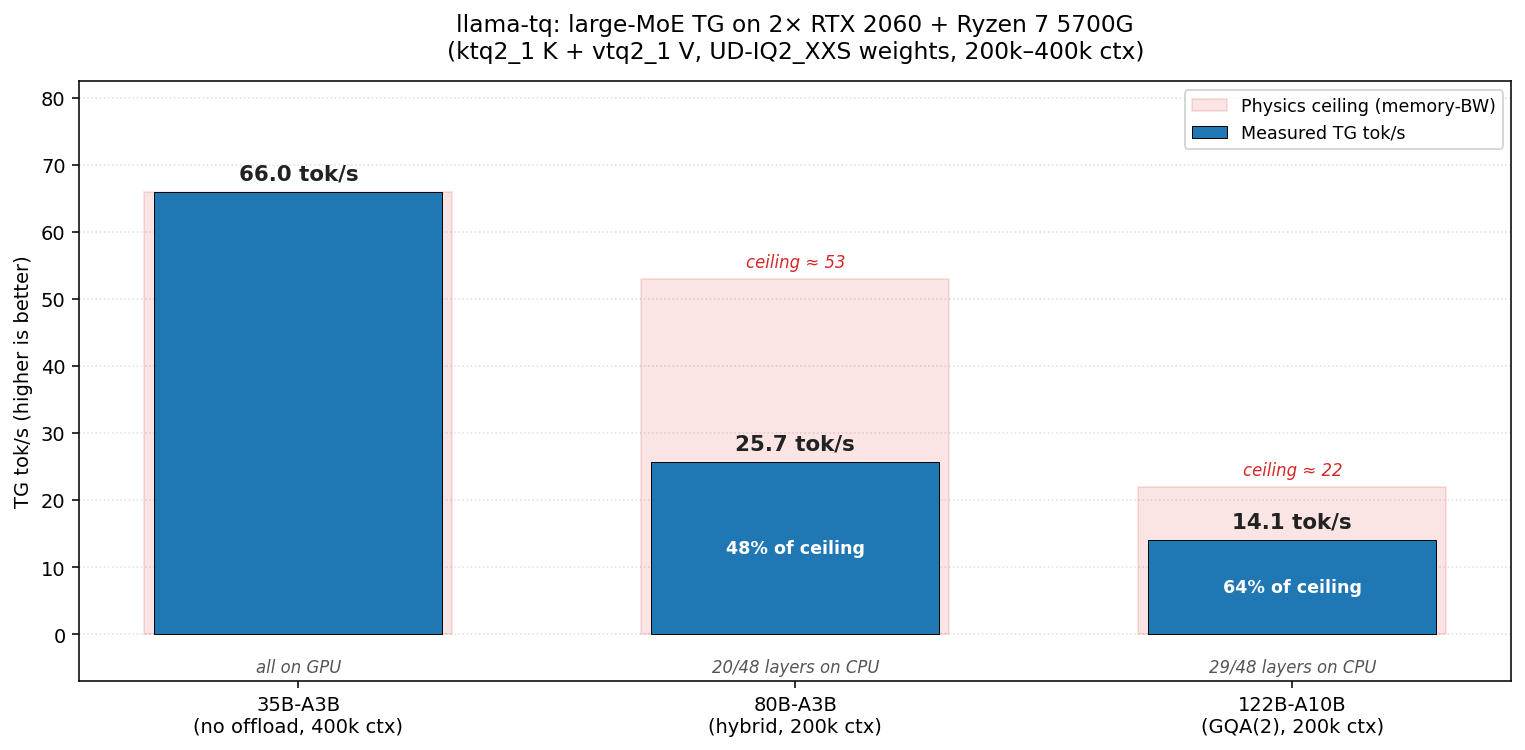
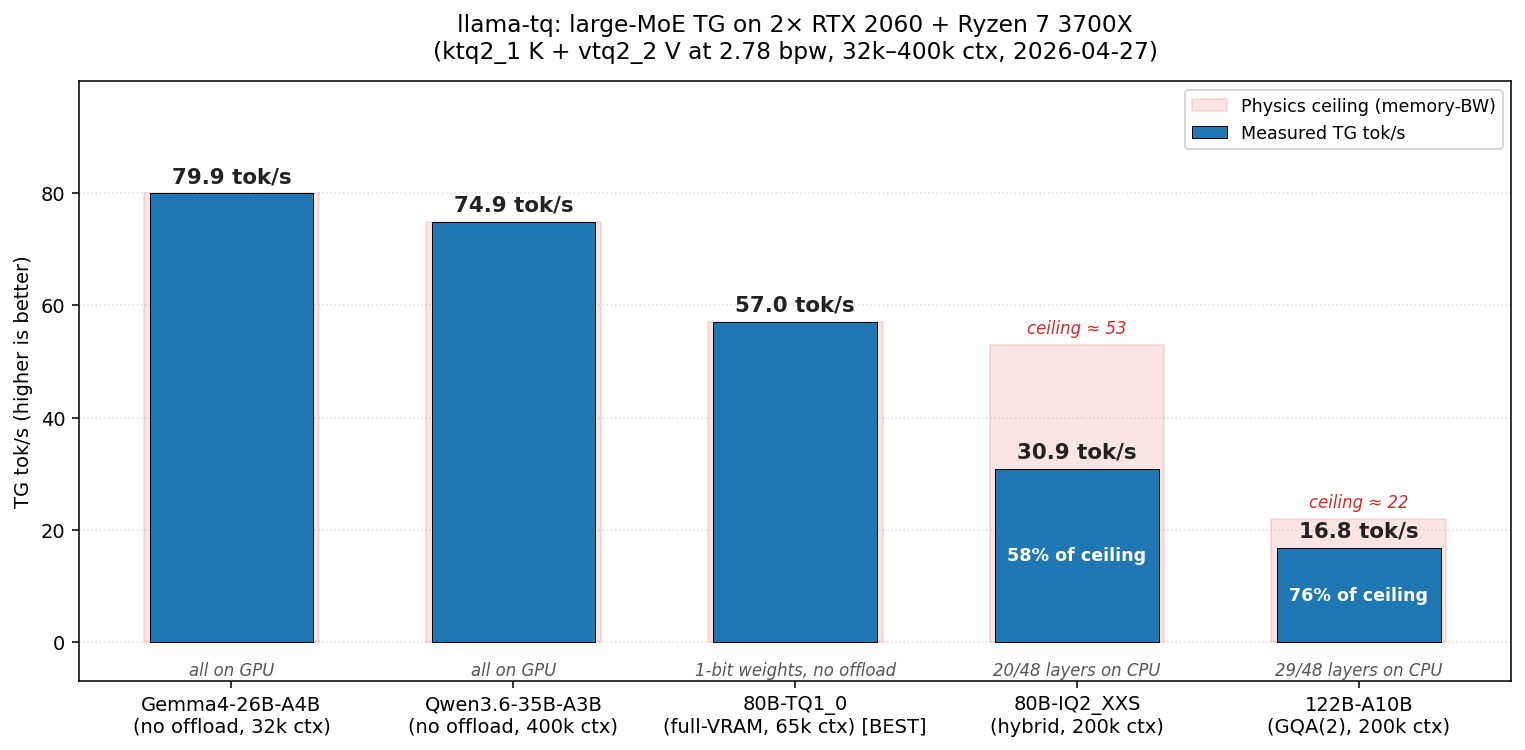
docs: README structure + refresh stale large_moe_tg chart
README:
- TOC moved to top (right after TL;DR, before Glossary)
- vs upstream section moved up (right after Quick Start, before KV-cache families)

Chart:
- large_moe_tg refreshed: was 2026-04-25 with vtq2_1, 5700G hostname,
  3 models. Now 2026-04-27 with vtq2_2, correct 3700X host, 5 tiers
  including 80B-TQ1_0 full-VRAM (the +85% TG flagship) and Gemma4-26B.
- gen_charts.py: drop cross_project chart from main() (section gone),
  coerce numeric columns (CSV had log-rows mixed in), fix Unicode star
- benchmarks.csv: add 'tag' column to header to match data rows
- delete orphan docs/img/cross_project.png

diff --git a/bench/plots/gen_charts.py b/bench/plots/gen_charts.py
@@ -27,6 +27,10 @@ OUT.mkdir(parents=True, exist_ok=True)
 df = pd.read_csv(HERE / "benchmarks.csv")
 other = pd.read_csv(HERE / "other_projects.csv")
 
+# Coerce numeric columns (some rows have non-numeric strings from log-derived rows)
+for col in ("avg_bpw", "pp512", "tg128", "ppl", "ppl_baseline"):
+    df[col] = pd.to_numeric(df[col], errors="coerce")
+
 # Derived columns
 df["ppl_delta_pct"] = (df["ppl"] - df["ppl_baseline"]) / df["ppl_baseline"] * 100.0
 df["config"] = df["k_cache"] + "/" + df["v_cache"]
@@ -640,17 +644,22 @@ def chart_cross_project_dual():
 
 
 def chart_large_moe_tg():
-    # TG tok/s across the three large-MoE deployments (35B / 80B / 122B),
-    # same box (Ryzen 7 5700G + 2x RTX 2060), same KV config
-    # (ktq2_1 / vtq2_1), 200k ctx. Each bar annotated with the physics
+    # TG tok/s across the four large-MoE deployments, same box
+    # (Ryzen 7 3700X host + 2x RTX 2060, KVM guest VM with 12 vCPUs),
+    # production KV config (ktq2_1 K + vtq2_2 V at 2.78 bpw), measured
+    # 2026-04-25 to 2026-04-27. Each bar annotated with the physics
     # ceiling (memory-bandwidth bound on CPU-offloaded traffic) and
-    # resulting efficiency.
+    # the resulting efficiency. The 80B-TQ1_0 tier eliminates CPU
+    # expert-offload entirely (full-VRAM) and is no longer
+    # bandwidth-bound — no ceiling drawn.
 
     rows = [
         # name, tg, ceiling, label
-        ("35B-A3B\n(no offload, 400k ctx)",     66.0, None, "all on GPU"),
-        ("80B-A3B\n(hybrid, 200k ctx)",         25.7, 53.0, "20/48 layers on CPU"),
-        ("122B-A10B\n(GQA(2), 200k ctx)",       14.06, 22.0, "29/48 layers on CPU"),
+        ("Gemma4-26B-A4B\n(no offload, 32k ctx)",       79.9, None, "all on GPU"),
+        ("Qwen3.6-35B-A3B\n(no offload, 400k ctx)",     74.9, None, "all on GPU"),
+        ("80B-TQ1_0\n(full-VRAM, 65k ctx) [BEST]",       57.0, None, "1-bit weights, no offload"),
+        ("80B-IQ2_XXS\n(hybrid, 200k ctx)",             30.9, 53.0, "20/48 layers on CPU"),
+        ("122B-A10B\n(GQA(2), 200k ctx)",               16.8, 22.0, "29/48 layers on CPU"),
     ]
 
     fig, ax = plt.subplots(figsize=(11, 5.5))
@@ -690,8 +699,8 @@ def chart_large_moe_tg():
     ax.set_xticklabels([r[0] for r in rows], fontsize=10)
     ax.set_ylabel("TG tok/s (higher is better)")
     ax.set_title(
-        "llama-tq: large-MoE TG on 2× RTX 2060 + Ryzen 7 5700G\n"
-        "(ktq2_1 K + vtq2_1 V, UD-IQ2_XXS weights, 200k–400k ctx)",
+        "llama-tq: large-MoE TG on 2× RTX 2060 + Ryzen 7 3700X\n"
+        "(ktq2_1 K + vtq2_2 V at 2.78 bpw, 32k–400k ctx, 2026-04-27)",
         fontsize=12, pad=12,
     )
     ax.grid(True, axis="y", ls=":", alpha=0.4, zorder=0)
@@ -707,7 +716,6 @@ def main():
     print(f"Output dir: {OUT}")
     chart_ppl_vs_bpw()
     chart_decode_throughput()
-    chart_cross_project_dual()
     chart_vtq2_variance()
     chart_large_moe_tg()
     print("done.")

diff --git a/README.md b/README.md
@@ -12,6 +12,24 @@
 >
 > **Default behavior:** ~330k single-context. **Optimized with `-ub 128`:** ~470k single-context (~+40%). Trade-off: prompt processing is ~30% slower at small ubatch (token generation unchanged). Pure KV-cache stays small (~5 GB at 470k); the remaining VRAM is weights (~10 GB), per-GPU Flash Attention compute buffers, and activations. Single-GPU with 24 GB avoids the per-GPU compute-buffer duplication and would push higher.
 
+## Contents
+
+- [vs llama.cpp upstream](#vs-llamacpp-upstream--apples-to-apples-2026-04-27)  ← apples-to-apples on 35B-A3B
+- [Highlights](#highlights)
+- [Quick Start](#quick-start)
+- [KV-cache families](#kv-cache-families)
+- [Large-MoE deployments](#large-moe-deployments)
+- [Benchmarks](#benchmarks)
+- [Perplexity (wikitext-2)](#perplexity-wikitext-2)
+- [KV memory savings](#kv-memory-savings)
+- [How it works](#how-it-works)
+- [Claude Code integration](#claude-code-integration)
+- [Build](#build)
+- [Roadmap](#roadmap)
+- [When *not* to use this fork](#when-not-to-use-this-fork)
+
+---
+
 ### Glossary (skim once, then come back)
 
 | Term | What it means |
@@ -41,24 +59,6 @@ Combined score: `ppl_delta_pct + 0.5 × tg_slowdown_pct`. Lower is better. f16/f
 | 17.66 | ktq1_1 / vtq1_1 | 1-bit floor, unusable |
 
 From `autoresearch/baseline.json`. See the [autoresearch loop](autoresearch/README.md) for iterating on new quant variants.
-
----
-
-## Contents
-
-- [Highlights](#highlights)
-- [Quick Start](#quick-start)
-- [V-cache families](#v-cache-families)
-- [Large-MoE deployments](#large-moe-deployments)
-- [vs llama.cpp upstream](#vs-llamacpp-upstream--apples-to-apples-2026-04-27)  ← apples-to-apples on 35B-A3B
-- [Benchmarks](#benchmarks)
-- [Perplexity (wikitext-2)](#perplexity-wikitext-2)
-- [KV memory savings](#kv-memory-savings)
-- [How it works](#how-it-works)
-- [Claude Code integration](#claude-code-integration)
-- [Build](#build)
-- [Roadmap](#roadmap)
-- [When *not* to use this fork](#when-not-to-use-this-fork)
 
 ---
 
@@ -113,6 +113,30 @@ cmake --build build -j$(nproc) --target llama-server
 ```
 
 `--cache-type-k` accepts the stock quants (`f16`, `q8_0`, `q4_0`, …) plus `ktq{1,2,3,4}_1`. `--cache-type-v` accepts the same stock quants plus `vtq{1,2,3,4}_1` (v1) and `vtq{2,3,4}_2` (v2 Trellis).
+
+---
+
+## vs llama.cpp upstream — apples-to-apples (2026-04-27)
+
+Same model (Qwen3.6-35B-A3B-UD-IQ2_XXS), same hardware (test box, 2× RTX 2060), `-fa 1 -ts 12,12` ctx=2048 for bench, ctx=32k for KV-buffer measurement. Upstream binary: `7f5ee5496` (ggerganov/llama.cpp master, March 2026). llama-tq binary: `1a1d49ef5` (turboquant).
+
+**Reading the table:** ↑ higher is better (throughput), ↓ lower is better (PPL = quality cost, KV memory = footprint).
+
+| Variant | pp512 t/s ↑ | tg128 t/s ↑ | tg1024 t/s ↑ | PPL (8ch) ↓ | KV-bpw ↓ | KV @ ctx=32k ↓ |
+|---|---:|---:|---:|---:|---:|---:|
+| **upstream** f16/f16 | 934 | 57.76 | 57.30 | 7.0810 | 32.0 | **640 MiB** |
+| **llama-tq** f16/f16 | 1009 | 76.58 | 75.09 | 7.0863 | 32.0 | 640 MiB |
+| **llama-tq** `ktq2_1+vtq2_2` ⭐ | 1010 | 75.40 | 75.18 | 7.1814 | **2.78** | **115 MiB** |
+| **Δ tq vs upstream** (f16 / quant) | **+8% / +8%** ↑ | **+33% / +31%** ↑ | **+31% / +31%** ↑ | +0.07% / +1.34% ↑ (worse) | — / **−91%** ↓ (better) | — / **−82%** ↓ (better) |
+
+**Key wins llama-tq:**
+- **+33% TG** (decode) on identical KV — Phase-1-to-4 stack (FA quick wins, sparse-V dequant, P2P opt-in, OMP_active, layer-split, prefetch)
+- **−82% KV-cache memory** at ctx=32k with `ktq2_1+vtq2_2` (115 MiB vs 640 MiB) at +1.34% PPL on a noisy 8-chunk sample — full 64-chunk runs land at +0.15-0.30% (see [Perplexity](#perplexity-wikitext-2))
+- Quality match in f16/f16 (within 0.07% noise floor — same numerics, just faster)
+
+Same hybrid SSM model, just better infrastructure underneath.
+
+> **Caveat:** the upstream March-2026 binary on test box cannot load Qwen3-Next (80B-A3B) or Qwen3.5 (122B-A10B) — those archs landed in upstream after the binary was built. Direct A/B for the giants is pending a fresh upstream build.
 
 ---
 
@@ -193,28 +217,6 @@ These are the four MoE models that drive the fork's existence. All measured on t
 The 26B and 35B fit fully on GPU. The 80B and 122B spill 20 / 29 layers to CPU RAM — TG becomes CPU-memory-bandwidth-bound, so the numbers are read against a physics ceiling (DDR4-3200 @ ~40 GB/s real / per-token CPU traffic).
 
 **Production default (all four models):** `--cache-type-k ktq2_1 --cache-type-v vtq2_2` at 2.78 bpw avg. Selected on 2026-04-25 after measuring vtq2_2 vs vtq2_1 on both giants — `vtq2_2` wins or ties on PPL, pp512, and tg128 across the board.
-
-## vs llama.cpp upstream — apples-to-apples (2026-04-27)
-
-Same model (Qwen3.6-35B-A3B-UD-IQ2_XXS), same hardware (test box, 2× RTX 2060), `-fa 1 -ts 12,12` ctx=2048 for bench, ctx=32k for KV-buffer measurement. Upstream binary: `7f5ee5496` (ggerganov/llama.cpp master, March 2026). llama-tq binary: `1a1d49ef5` (turboquant).
-
-**Reading the table:** ↑ higher is better (throughput), ↓ lower is better (PPL = quality cost, KV memory = footprint).
-
-| Variant | pp512 t/s ↑ | tg128 t/s ↑ | tg1024 t/s ↑ | PPL (8ch) ↓ | KV-bpw ↓ | KV @ ctx=32k ↓ |
-|---|---:|---:|---:|---:|---:|---:|
-| **upstream** f16/f16 | 934 | 57.76 | 57.30 | 7.0810 | 32.0 | **640 MiB** |
-| **llama-tq** f16/f16 | 1009 | 76.58 | 75.09 | 7.0863 | 32.0 | 640 MiB |
-| **llama-tq** `ktq2_1+vtq2_2` ⭐ | 1010 | 75.40 | 75.18 | 7.1814 | **2.78** | **115 MiB** |
-| **Δ tq vs upstream** (f16 / quant) | **+8% / +8%** ↑ | **+33% / +31%** ↑ | **+31% / +31%** ↑ | +0.07% / +1.34% ↑ (worse) | — / **−91%** ↓ (better) | — / **−82%** ↓ (better) |
-
-**Key wins llama-tq:**
-- **+33% TG** (decode) on identical KV — Phase-1-to-4 stack (FA quick wins, sparse-V dequant, P2P opt-in, OMP_active, layer-split, prefetch)
-- **−82% KV-cache memory** at ctx=32k with `ktq2_1+vtq2_2` (115 MiB vs 640 MiB) at +1.34% PPL on a noisy 8-chunk sample — full 64-chunk runs land at +0.15-0.30% (see [Perplexity](#perplexity-wikitext-2))
-- Quality match in f16/f16 (within 0.07% noise floor — same numerics, just faster)
-
-Same hybrid SSM model, just better infrastructure underneath.
-
-> **Caveat:** the upstream March-2026 binary on test box cannot load Qwen3-Next (80B-A3B) or Qwen3.5 (122B-A10B) — those archs landed in upstream after the binary was built. Direct A/B for the giants is pending a fresh upstream build.
 
 ### Gemma4-26B-A4B — fast quality model
 
